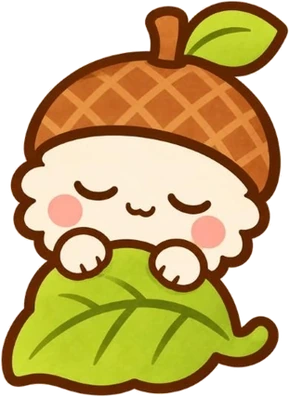
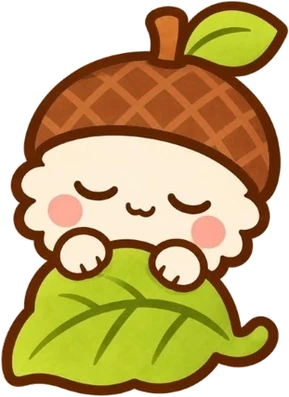
補圖與修正：SUNNY/DODO/PIKO/森林寶寶捧食物姿勢、寶寶生病圖、繪本風便便、接果子改用食物圖示、生病不會長大的提示；寶寶新圖帽子顏色對齊定稿
Claude-Session: https://claude.ai/code/session_01UtWEYBXauzih7EQqRm4b6n

Changed region(s): [[0.0934, 0.1511, 0.9343, 0.4836]]

diff --git a/index.html b/index.html
@@ -98,6 +98,7 @@ body{background:var(--bg);color:var(--ink);font-family:var(--font);font-size:14p
 .dex .ic{font-size:24px}
 .dex .no{color:var(--muted)}
 .diary{background:var(--main-soft);border-radius:12px;padding:10px;font-size:13px;line-height:1.6}
+.warn{background:#FCE6DF;color:#8A3B25;border-radius:12px;padding:10px;font-size:13px;line-height:1.6;margin:8px 0}
 textarea{width:100%;min-height:80px;font:12px monospace;border:1px solid var(--hair);border-radius:10px;padding:8px}
 @media (prefers-reduced-motion: reduce){.act{transition:none}}
 </style>
@@ -288,6 +289,7 @@ function getSick(why){
   G.sick = true; G.sickSince = G.t; G.sickMistakeAt = null; G.medicineTries = 0;
   G.sleeping = G.napping = false;
   pet.run([{ anim:'sick', dur:2400, say: why === 'treat' ? '肚子痛痛…' : line('sick') }]);
+  toast('生病了！生病的時候不會長大，快用「藥草」治好吧');
 }
 function goSleep(byPlayer, online){
   G.sleeping = true; G.napping = false; G.sleptAt = G.t; G.fake = null;
@@ -477,11 +479,11 @@ for (const ch of Object.keys(FACE_FILES)) for (const n of new Set(Object.values(
 // 新增圖片後，把型態和動作登記在這裡（沒登記的不會去載入），並加進 sw.js 的 CORE 清單。
 const ART_ACTS = {
   egg: ['idle'],                       // 橡實蛋 v3（2026-11-25 定稿）
-  baby: ['idle', 'sleep'],             // 森林寶寶 v1（2026-11-25 定稿）；sleep 2026-11-28
+  baby: ['idle', 'sleep', 'sick', 'hold', 'hold_front'],   // 森林寶寶 v1（2026-11-25 定稿）；sleep、sick、hold 2026-11-28
   kuri:  ['idle', 'eat', 'sleep', 'play', 'sick', 'hold', 'hold_front'],  // 四隻幼年角色 v1（2026-11-25 定稿）；hold＝捧著食物（2026-11-25）
-  sunny: ['idle', 'eat', 'sleep', 'play', 'sick'],
-  dodo:  ['idle', 'eat', 'sleep', 'play', 'sick'],
-  piko:  ['idle', 'eat', 'sleep', 'play', 'sick'],
+  sunny: ['idle', 'eat', 'sleep', 'play', 'sick', 'hold', 'hold_front'],
+  dodo:  ['idle', 'eat', 'sleep', 'play', 'sick', 'hold', 'hold_front'],
+  piko:  ['idle', 'eat', 'sleep', 'play', 'sick', 'hold', 'hold_front'],
   kuri_p: ['idle'], kuri_r: ['idle'], kuri_f: ['idle'], kuri_h: ['idle'],   // 成年型 v1（2026-11-25）
   sunny_p: ['idle'], sunny_r: ['idle'], sunny_f: ['idle'], sunny_h: ['idle'],
   dodo_p: ['idle'], dodo_r: ['idle'], dodo_f: ['idle'], dodo_h: ['idle'],
@@ -494,7 +496,12 @@ for (const [f, acts] of Object.entries(ART_ACTS)) for (const a of acts){
 // 「捧著食物」姿勢：身體層 → 食物圖示 → 前掌層。錨點 [x 從中心, y 從底部, 圓半徑]，都是除以圖高（tools/holdpose.py 印出來的）
 const HOLD = {
   kuri: [-0.025, 0.297, 0.117],
+  sunny: [-0.067, 0.338, 0.116],
+  dodo: [-0.019, 0.411, 0.121],
+  piko: [-0.012, 0.331, 0.126],
+  baby: [-0.006, 0.285, 0.119],
 };
+{ const img = new Image(); img.onload = () => { IMG.poop = img; }; img.src = 'assets/props/poop.webp'; }
 // 食物圖示 v1（2026-11-25，ChatGPT 生成，tools/foodsheet.py 切圖）
 for (const id of Object.keys(FOOD)){ const img = new Image(); img.onload = () => { IMG[`food_${id}`] = img; }; img.src = `assets/food/${id}.webp`; }
 function drawFoodImg(id, x, y, size){
@@ -550,7 +557,8 @@ function drawPet(p, now){
 const BABY_EYES = [[-.105, .388], [.209, .388]], BABY_LEAF = [.139, .90];
 function babyOverlay(s, hgt, w, now){
   const hint = Gr.babyHint(G.hidden), t = now / 1000;
-  if (!(G.sleeping && IMG.baby_act_sleep) && (hint.level === 2 || (hint.level === 1 && (t % 6) < 1.5))){   // 睡覺圖的葉子位置不同，睡著時不提示
+  const alt = (G.sleeping && IMG.baby_act_sleep) || (pet.anim === 'eat' && pet.prop && IMG.baby_act_hold) || ((G.sick || pet.anim === 'sick' || pet.anim === 'medicine') && IMG.baby_act_sick);   // 換成別張圖時葉子位置不同
+  if (!alt && (hint.level === 2 || (hint.level === 1 && (t % 6) < 1.5))){   // 睡覺圖的葉子位置不同，睡著時不提示
     const x = BABY_LEAF[0] * w, y = -BABY_LEAF[1] * hgt, r = hgt * .1;
     const g = ctx.createRadialGradient(x, y, r * .2, x, y, r);
     g.addColorStop(0, CAT_TINT[hint.cat] + 'CC'); g.addColorStop(1, CAT_TINT[hint.cat] + '00');
@@ -757,13 +765,22 @@ function drawForest(now){
 }
 function shade(hex, k){ if (!k) return hex; const n = parseInt(hex.slice(1), 16), f = 1 - k; return `rgb(${round((n >> 16 & 255) * f + 30 * k)},${round((n >> 8 & 255) * f + 40 * k)},${round((n & 255) * f + 90 * k)})`; }
 function drawPoops(now){
-  for (const p of G.poops){ emoji('💩', p.x, p.y - 10 + sin(now / 400 + p.x) * .6, 22); }
+  for (const p of G.poops){
+    const img = IMG.poop, y = p.y - 2, k = 1 + sin(now / 400 + p.x) * .03;   // 便便 v1（2026-11-28，繪本風），沒載到時用 emoji
+    if (img){ const h = 30 * k, w = img.width * h / img.height; ctx.drawImage(img, p.x - w / 2, y - h, w, h); }
+    else emoji('💩', p.x, p.y - 10, 22);
+    // 臭臭線
+    ctx.strokeStyle = 'rgba(140,120,80,.55)'; ctx.lineWidth = 1.6; ctx.lineCap = 'round';
+    for (let i = -1; i <= 1; i += 2){ const c = ((now / 1400) + (i + 1) * .3 + p.x * .01) % 1, sx = p.x + i * 9, sy = y - 32 - c * 14;
+      ctx.globalAlpha = .9 * (1 - c); ctx.beginPath(); ctx.moveTo(sx, sy + 8); ctx.quadraticCurveTo(sx + 4, sy + 4, sx, sy); ctx.quadraticCurveTo(sx - 4, sy - 4, sx, sy - 8); ctx.stroke(); }
+    ctx.globalAlpha = 1;
+  }
 }
 
 /* =====================================================================
    小遊戲 1：接果子（從框架的接點心改）
    ===================================================================== */
-const GOOD = ['🍓', '🍎', '🥕', '🍯', '🍄', '🍊'];
+const GOOD = ['F05', 'F07', 'F01', 'F09', 'F13', 'F06', 'F03', 'F10'];   // 掉下來的果子＝食物圖示（沒載到時用 emoji）
 function startCatch(){
   pet.queue = []; pet.cur = null; pet.target = null;
   mg = { kind:'catch', t0: performance.now(), score: 0, items: [], spawn: 0, px: W / 2, tx: W / 2, done: false, saved: { x: pet.x, y: pet.y }, clover: false };
@@ -796,7 +813,7 @@ function drawCatch(now){
   const g = mg, e = (now - g.t0) / 1000;
   const grad = ctx.createLinearGradient(0, 0, 0, H); grad.addColorStop(0, '#DFF1FA'); grad.addColorStop(1, '#E9F5D6'); ctx.fillStyle = grad; ctx.fillRect(0, 0, W, H);
   ctx.fillStyle = '#9CCB6F'; ctx.fillRect(0, H - 8, W, 8);
-  for (const it of g.items) emoji(it.ch, it.x, it.y, 28);
+  for (const it of g.items){ if (FOOD[it.ch]) drawFoodImg(it.ch, it.x, it.y, 34); else emoji(it.ch, it.x, it.y, 28); }
   drawPet(pet, now); drawSpeech(pet, now);
   if (g.pop && now - g.pop.t < 600){ ctx.globalAlpha = 1 - (now - g.pop.t) / 600; txt(g.pop.txt, g.pop.x, g.pop.y - 20 - (now - g.pop.t) / 20, 18, '#4E8A36'); ctx.globalAlpha = 1; }
   hud(`接果子　${g.score} 個`, `${max(0, 20 - floor(e))} 秒`);
@@ -1073,6 +1090,7 @@ function openStatus(){
       <span class="k">乖巧</span><span class="meter" role="meter" aria-valuenow="${G.discipline}" aria-valuemin="0" aria-valuemax="100"><b style="width:${G.discipline}%"></b></span>
       <span class="k">第幾代</span><span>${G.gen}</span>
     </div>
+    ${G.sick ? `<p class="warn">🤒 生病中：生病的時候不會長大，用「藥草」治好就會繼續成長。</p>` : ''}
     ${G.diary[0] ? `<div class="diary">📔 ${G.diary[0].text}</div>` : ''}
     ${adult ? `<p>長大了！可以讓${petName()}回到森林生活，留在圖鑑裡，再孵一顆新的蛋。</p><button class="plain" type="button" id="btnRetire">🌳 送回森林、孵新的蛋</button>` : ''}
     <button class="close" type="button" data-close>關閉</button>`, () => {

diff --git a/sw.js b/sw.js
@@ -1,5 +1,5 @@
 // 離線快取：任何檔案改動後都要把 VERSION 加一（wp-life-v1 → wp-life-v2），新增的素材也要加進 CORE 清單。
-const VERSION = 'wp-life-v14';
+const VERSION = 'wp-life-v15';
 const CORE = [
   './',
   './index.html',
@@ -95,7 +95,17 @@ const CORE = [
   './assets/food/T03.webp',
   './assets/food/T04.webp',
   './assets/characters/kuri/act/kuri_act_hold.webp',
-  './assets/characters/kuri/act/kuri_act_hold_front.webp'];
+  './assets/characters/kuri/act/kuri_act_hold_front.webp',
+  './assets/characters/sunny/act/sunny_act_hold.webp',
+  './assets/characters/sunny/act/sunny_act_hold_front.webp',
+  './assets/characters/dodo/act/dodo_act_hold.webp',
+  './assets/characters/dodo/act/dodo_act_hold_front.webp',
+  './assets/characters/piko/act/piko_act_hold.webp',
+  './assets/characters/piko/act/piko_act_hold_front.webp',
+  './assets/characters/baby/act/baby_act_hold.webp',
+  './assets/characters/baby/act/baby_act_hold_front.webp',
+  './assets/characters/baby/act/baby_act_sick.webp',
+  './assets/props/poop.webp'];
 
 self.addEventListener('install', e => {
   e.waitUntil(caches.open(VERSION).then(c => c.addAll(CORE)).then(() => self.skipWaiting()));

diff --git a/tools/holdpose.py b/tools/holdpose.py
@@ -49,10 +49,20 @@ def main(outdir, name, src, ref):
         if blob.sum() < inside.sum() * 1.5: paw |= blob
     paw |= front
     front = paw | (ndimage.binary_dilation(paw, iterations=4) & dark)   # 加上手掌外框線
-    # 身體層：洋紅區填胸口毛色（圓外圈的淺色像素平均）
-    ring2 = ndimage.binary_dilation(inside, iterations=8) & ~inside & (al > 200)
-    light = ring2 & (rgb.min(2) > 150)
-    fill = np.median(rgb[light], 0) if light.sum() > 20 else np.array([250, 240, 228])
+    # 身體層：洋紅區用「圓形左右兩側」的毛色平塗（避開上面的嘴巴、下面的衣服），邊緣稍微柔化
+    ys_, xs_ = np.nonzero(inside); cy0, r0 = ys_.mean(), np.sqrt(inside.sum() / np.pi)
+    band = ndimage.binary_dilation(inside, iterations=16) & ~ndimage.binary_dilation(inside, iterations=7) & (al > 200) & ~dark   # 離圓 7px 以上，避開洋紅混色
+    rows = np.zeros_like(band); rows[int(cy0 - r0 * .35):int(cy0 + r0 * .35)] = True
+    band &= ~ndimage.binary_dilation(mag, iterations=4) & ~((rgb[..., 2] - rgb[..., 1] > 25) & (rgb[..., 0] - rgb[..., 1] > 40))   # 不要沾到洋紅邊
+    band &= ~(rgb[..., 0] - rgb[..., 1] > 88)   # 腮紅、舌頭這類粉紅色不算毛色
+    side = band & rows & ~front
+    if side.sum() < 20: side = band & ~front
+    # 取圓附近最常見的毛色（量化後找眾數）
+    near = ndimage.binary_dilation(inside, iterations=int(r0)) & ~ndimage.binary_dilation(inside, iterations=7) & (al > 200) & ~dark & ~front
+    near &= ~(rgb[..., 0] - rgb[..., 1] > 88)
+    q = (rgb[near] // 16); keys = q[:, 0] * 256 + q[:, 1] * 16 + q[:, 2]
+    best = np.bincount(keys).argmax(); fill = np.median(rgb[near][keys == best], 0)
+    print("fill", fill, file=sys.stderr)
     body = a.copy(); body[mag, :3] = fill; body[mag, 3] = 255
     fr = np.zeros_like(a); fr[front] = a[front]
     tint = front & ndimage.binary_dilation(mag, iterations=4) & (rgb[..., 2] - rgb[..., 1] > 25)   # 外框線沾到的洋紅色改回棕色

diff --git a/tools/capmatch.py b/tools/capmatch.py
@@ -1,0 +1,25 @@
+# 森林寶寶的新動作圖：把橡實帽顏色對齊定稿 idle（ChatGPT 後來畫的帽子偏淺焦糖色）
+# 用法：python3 -I tools/capmatch.py <idle.webp> <要調的圖.webp>...（直接覆蓋）
+import sys
+import numpy as np
+from PIL import Image
+from scipy import ndimage
+def capmask(a):
+    r, g, b, al = [a[..., i].astype(float) for i in range(4)]
+    m = (al > 128) & (r - b > 45) & (r - g > 25) & (r > 125)         # 棕橘色系（不含深色外框線）
+    m &= ~((g > b + 40) & (g > r * .75))                               # 排除綠葉
+    lab, n = ndimage.label(m); s = ndimage.sum(m, lab, range(1, n + 1))
+    big = lab == (int(np.argmax(s)) + 1)                                # 帽子是最大的一塊
+    y0, y1 = np.nonzero(big.any(1))[0][[0, -1]]; x0, x1 = np.nonzero(big.any(0))[0][[0, -1]]
+    box = np.zeros_like(m); box[y0:y1 + 1, x0:x1 + 1] = True
+    hull = ndimage.binary_fill_holes(ndimage.binary_closing(big, iterations=4))
+    return m & box & hull                                               # 帽子範圍內的棕橘色（花紋線也算），腮紅不在裡面
+def stats(px): return px.mean(0), px.std(0) + 1e-3
+ref = np.asarray(Image.open(sys.argv[1]).convert('RGBA'))
+mr, sr = stats(ref[capmask(ref)][:, :3].astype(float))
+for p in sys.argv[2:]:
+    a = np.asarray(Image.open(p).convert('RGBA')).copy(); m = capmask(a)
+    px = a[m][:, :3].astype(float); mt, st = stats(px)
+    k = np.clip(sr / st, .6, 1.4)
+    a[..., :3][m] = np.clip((px - mt) * k + mr, 0, 255).astype(np.uint8)
+    Image.fromarray(a, 'RGBA').save(p, 'WEBP', quality=92, method=6); print(p, mt.round(), '→', mr.round())

diff --git a/docs/growth-chart-v1.md b/docs/growth-chart-v1.md
@@ -48,7 +48,10 @@
 - ChatGPT 對話「橡實蛋設計稿」中的森林寶寶第 1 張（兩張選項中選「圖像 1」：帽子與橡實蛋完全一致、描邊較粗、小尺寸較清楚）
 - 遊戲圖：`assets/characters/baby/act/baby_act_idle.webp`（299×384，透明）
 - 睡覺圖：`assets/characters/baby/act/baby_act_sleep.webp`（2026-11-28）：閉眼、蓋大樹葉被子；帽子大小對齊 idle。原本用程式在 idle 上蓋閉眼，大眼睛邊緣會露出來，所以改成正式圖。第一次生成的帽子少了菱格紋、多了鼻子和捲毛，已要求照定稿修正。
-- 吃東西：`kuri_act_hold.webp`＋`kuri_act_hold_front.webp`（2026-11-25）捧著洋紅圓佔位，`tools/holdpose.py` 拆成身體層與前掌層，食物圖示（`assets/food/`，`tools/foodsheet.py`）夾在中間。其他角色照同樣方式補。
+- 生病圖：`baby_act_sick.webp`（2026-11-28）：退熱貼、眼角淚滴、波浪嘴。
+- 寶寶的睡覺／生病／捧食物三張，帽子顏色用 `tools/capmatch.py` 對齊定稿 idle（ChatGPT 後來畫的帽子偏淺焦糖色）。
+- 吃東西（捧著食物）：KURI（11-25）、SUNNY、DODO、PIKO、森林寶寶（11-28）都有 `{型態}_act_hold.webp`＋`{型態}_act_hold_front.webp`。做法：請 ChatGPT 畫雙手捧著洋紅色 #FF00FF 圓形佔位，`tools/holdpose.py` 拆成身體層（洋紅處填附近最常見的毛色）與前掌層，並印出錨點登記到 `index.html` 的 `HOLD`；遊戲畫法是身體層 → 食物圖示（`assets/food/`，`tools/foodsheet.py` 切圖）→ 前掌層，所以餵什麼就捧什麼。手上原本拿的道具（PIKO 的放大鏡）吃東西時放下。成年 16 型尚未補，暫時是食物拿在嘴邊。
+- 便便：`assets/props/poop.webp`（11-28），程式另外畫臭臭線。
 - 程式疊加：睡覺時閉眼；飲食傾向提示改成「嫩芽周圍的彩色光暈」（綠＝菜園、橘＝陽光、棕＝蜂蜜、紫＝好奇），陽光另加小光點
 - 之後可再請 ChatGPT 補吃東西、睡覺、生病的專用圖
 - 以下為原始提案：

diff --git a/CLAUDE.md b/CLAUDE.md
@@ -14,6 +14,8 @@ https://omg155195-676.github.io/woodland-pals-little-life/
 - `assets/characters/{型態}/face/`：表情圖；目前幼年四角色的表情用 LINE 日常表情貼（暫代）
 - `assets/characters/{型態}/act/{型態}_act_{idle|eat|sleep|play|sick}.webp`：正式動作圖（蛋、寶寶、四隻幼年已完成；成年型尚未製作）。新增後要登記在 `index.html` 的 `ART_ACTS`。去背用 `tools/cutout.py`
 - `assets/backgrounds/bg_forest_{day|dusk|night}.webp`：森林背景（已完成），登記在 `ART_BG`
+- `assets/food/{F01…F16,T01…T04}.webp`：食物圖示；`assets/props/poop.webp`：便便
+- 捧食物姿勢 `{型態}_act_hold(_front).webp`：`tools/holdpose.py` 產生，錨點登記在 `HOLD`；森林寶寶帽子顏色用 `tools/capmatch.py` 對齊
 - `tests/growth.test.mjs`：規則測試，`node --test tests/growth.test.mjs`
 - `tools/simulate.mjs`：平衡模擬（機器人玩家），`node tools/simulate.mjs 2000`
 - `tools/hires.py`：沿用自框架的放大＋去背工具；裁切位置是 mare-freya 的，處理 ChatGPT 圖時要改
